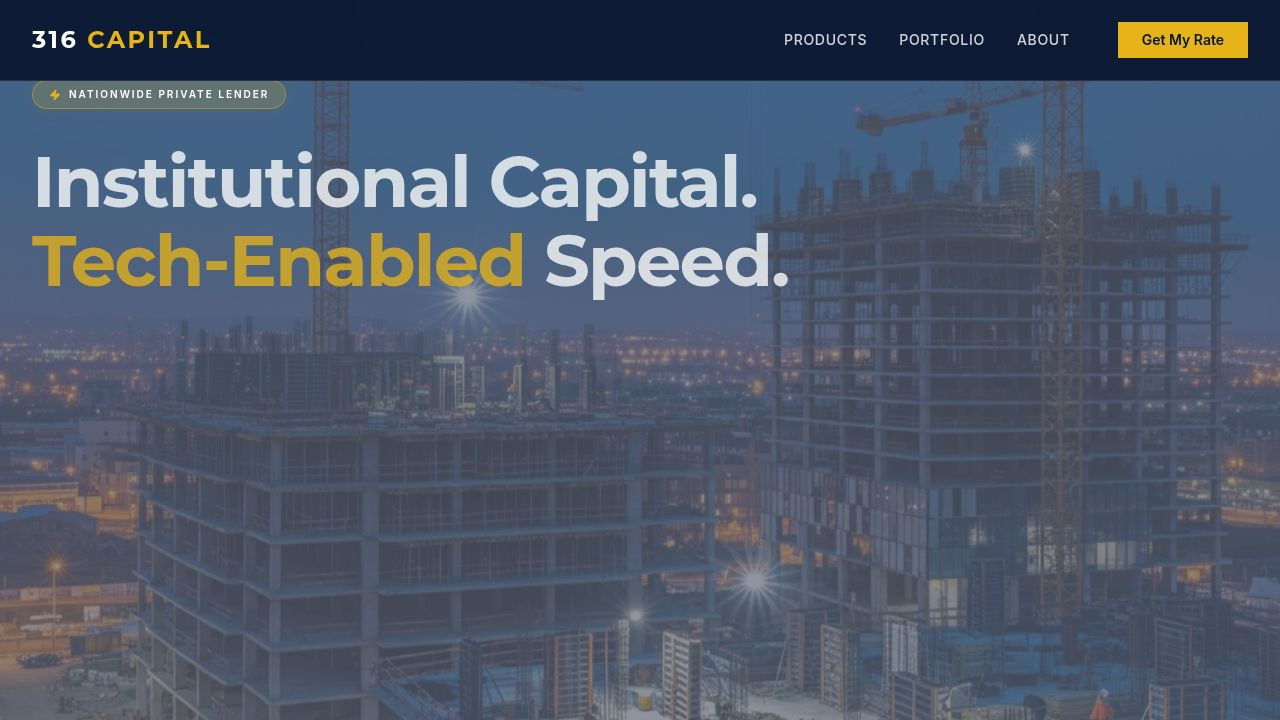
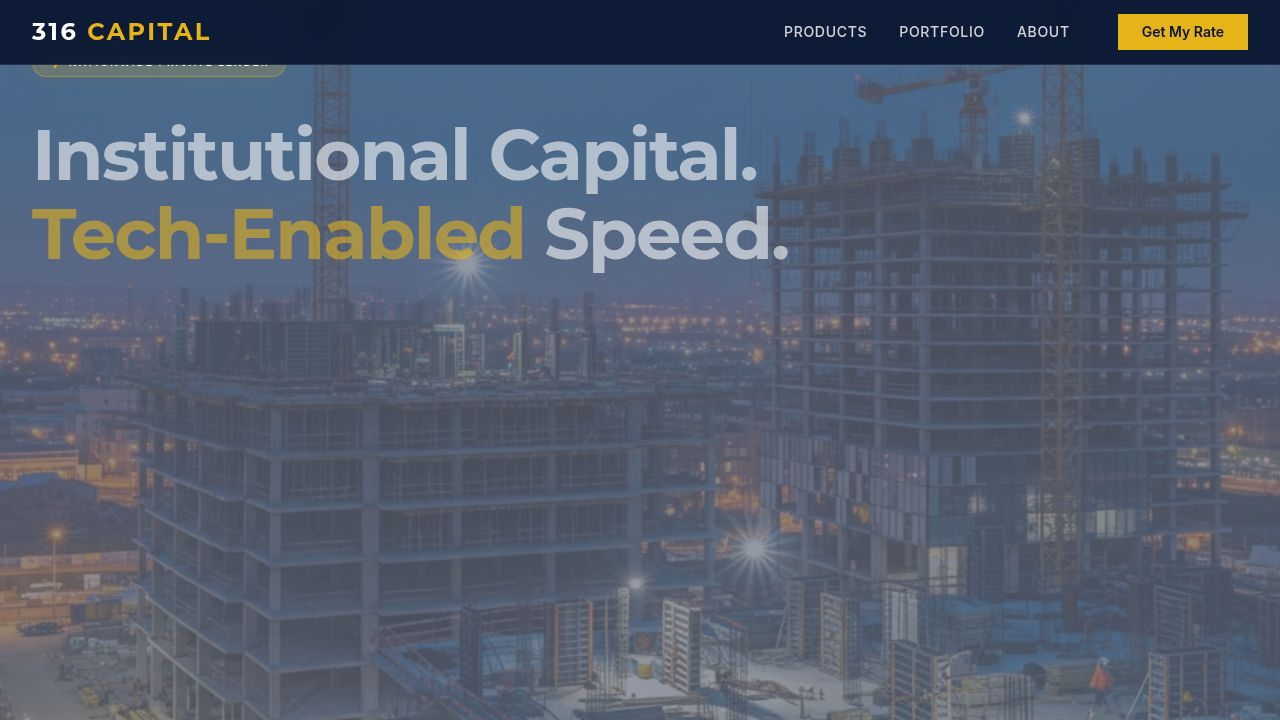
Make the top navigation bar and hero section slimmer
Adjust the height of the navigation bar from 20 to 16 units and reduce the vertical padding of the hero section from 20 to 12 units.

Replit-Commit-Author: Agent
Replit-Commit-Session-Id: 48f3b325-ad19-4e1c-9a55-d72706f8f35a
Replit-Commit-Checkpoint-Type: full_checkpoint
Replit-Commit-Event-Id: c24d5d11-3658-481b-89d2-61611a60feba
Replit-Commit-Screenshot-Url: https://storage.googleapis.com/screenshot-production-us-central1/8a4d1e78-76b3-4b1b-9b1b-6099a4dc3aaa/48f3b325-ad19-4e1c-9a55-d72706f8f35a/moL9bnP
Replit-Helium-Checkpoint-Created: true

diff --git a/client/src/components/layout/navbar.tsx b/client/src/components/layout/navbar.tsx
@@ -9,7 +9,7 @@ export function Navbar() {
   return (
     <nav className="fixed w-full z-50 bg-navy-950/95 backdrop-blur-md border-b border-white/10">
       <div className="max-w-7xl mx-auto px-4 sm:px-6 lg:px-8">
-        <div className="flex justify-between h-20 items-center">
+        <div className="flex justify-between h-16 items-center">
           {/* Logo */}
           <div className="flex-shrink-0 flex items-center">
             <Link href="/">

diff --git a/client/src/components/home/hero.tsx b/client/src/components/home/hero.tsx
@@ -34,7 +34,7 @@ export function Hero() {
         <div className="absolute inset-0 bg-navy-950/60" />
       </motion.div>
 
-      <div className="relative z-10 max-w-7xl mx-auto px-4 sm:px-6 lg:px-8 w-full py-20">
+      <div className="relative z-10 max-w-7xl mx-auto px-4 sm:px-6 lg:px-8 w-full py-12">
         <div className="max-w-4xl">
           <motion.div 
             initial={ { opacity: 0, x: -20 } }
